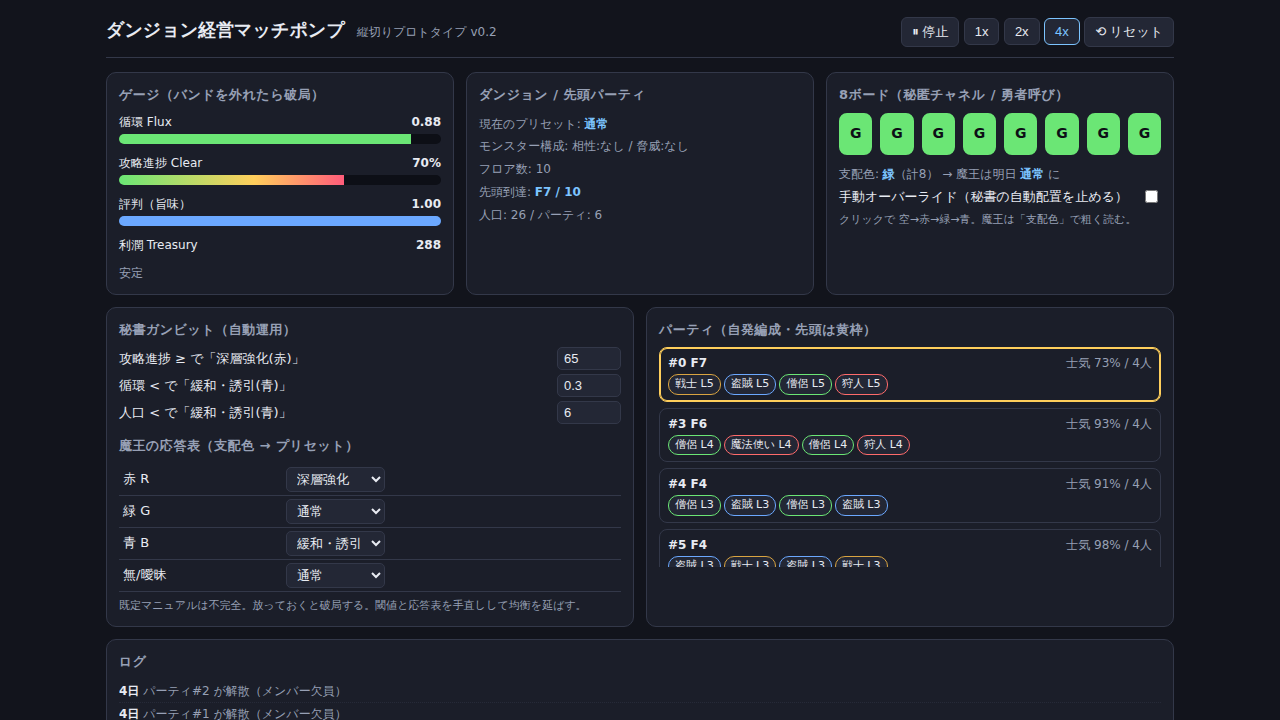
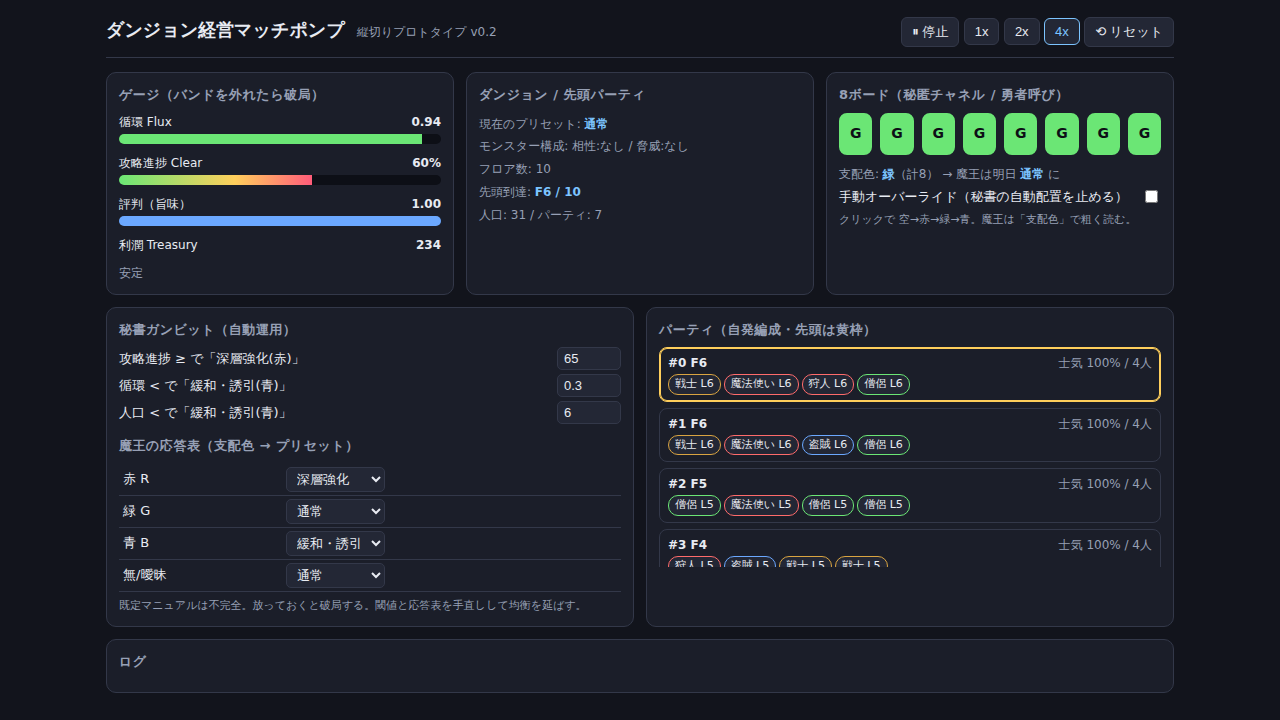
balance: homeostasis + terminal profit clock (fun verified)
- Per-day floor cap: control loop (1/day demon) can now track the frontrunner
- Default manual now oscillates in a stable band instead of breaking in ~16d
- Deepen preset now costly (high upkeep) -> over-suppressing bankrupts faster
- Rising demon-upkeep clock (D-07 entropy) -> catastrophe is eventual & inevitable
- Inflow level-creep; per-party operating cost; profit is now a live terminal gauge
- Strategy sweep: survival 104d (over-deepen) -> 187d (ease+situational deepen);
  player edits to thresholds/response-table meaningfully change the score (D-01)

diff --git a/src/config.js b/src/config.js
@@ -15,14 +15,18 @@ export const CONFIG = {
     inflowBase: 0.35, // 1tick あたりの基本流入期待値（評判で増減）
     startLevel: 1,
     startHp: 20,
+    // エントロピー漸増(D-07)：新規冒険者が日々わずかに強く来る（熟練の伝播）。
+    // 静的マニュアルはいずれ追いつけなくなる → 手直しが要る。
+    inflowLevelCreep: 0.06, // 新規Lv = startLevel + 経過日 × これ
   },
 
   // ダンジョン挙動プリセット（魔王の応答表が指すもの）
   // monster: 魔王のモンスター構成ノブ(D-13)。resist=半減属性 / threat=脅威型(burst 要壁 / status 要回復)
+  // upkeep: そのプリセットを維持する魔王への循環維持コスト/日（深層強化は高い）。
   presets: {
-    normal: { id: 'normal', label: '通常', diffBase: 1.0, deepBias: 0.0, reward: 1.0, monster: { resist: 'none', threat: 'none' } },
-    deepen: { id: 'deepen', label: '深層強化', diffBase: 1.0, deepBias: 1.2, reward: 1.1, monster: { resist: 'phys', threat: 'burst' } },
-    ease: { id: 'ease', label: '緩和・誘引', diffBase: 0.75, deepBias: 0.0, reward: 1.25, monster: { resist: 'none', threat: 'none' } },
+    normal: { id: 'normal', label: '通常', diffBase: 1.0, deepBias: 0.0, reward: 1.0, upkeep: 4, monster: { resist: 'none', threat: 'none' } },
+    deepen: { id: 'deepen', label: '深層強化', diffBase: 1.0, deepBias: 1.3, reward: 1.1, upkeep: 16, monster: { resist: 'phys', threat: 'burst' } },
+    ease: { id: 'ease', label: '緩和・誘引', diffBase: 0.75, deepBias: 0.0, reward: 1.25, upkeep: 7, monster: { resist: 'none', threat: 'none' } },
   },
 
   party: {
@@ -35,13 +39,16 @@ export const CONFIG = {
   },
 
   economy: {
-    feeRate: 0.2, // 冒険者の稼ぎへのギルド手数料
-    townConsumePerCapita: 0.05, // 1tick 1人あたりの街の消費（ギルド関連）
-    secretarySalaryPerDay: 8, // 秘書の人件費 / 日
-    demonUpkeepPerDay: 5, // 魔王への循環維持コスト / 日（固定分）
-    demonUpkeepPerClear: 0.2, // 攻略進捗に比例する循環維持コスト / 日
+    feeRate: 0.16, // 冒険者の稼ぎへのギルド手数料
+    townConsumePerCapita: 0.04, // 1tick 1人あたりの街の消費（ギルド関連）
+    secretarySalaryBase: 5, // 秘書の人件費 / 日（基本）
+    secretarySalaryPerParty: 1.2, // パーティ数に比例する運営費 / 日
+    demonUpkeepPerClear: 0.6, // 攻略進捗に比例する循環維持コスト / 日
+    // 終端クロック(D-07)：世界が拡大するほど循環維持コストが逓増。いずれ収入を追い越す。
+    // 効率の良い経営（人口/攻略を締め、利潤率を保つ）ほど破産を遅らせる＝スコア。
+    demonUpkeepGrowthPerDay: 0.5,
     startTreasury: 80,
-    bankruptFloor: -40, // これを下回る日が続くと破産
+    bankruptFloor: -50, // これを下回る日が続くと破産
     bankruptDays: 3,
   },
 

diff --git a/src/sim.js b/src/sim.js
@@ -22,9 +22,10 @@ export function simTick(state) {
   const aliveCount = countAliveAll(state);
   const capFactor = Math.max(0, 1 - aliveCount / CONFIG.population.softCap);
   pop.inflowAccum += CONFIG.population.inflowBase * (0.4 + state.gauges.reputation) * capFactor;
+  const inflowLevel = CONFIG.population.startLevel + state.time.day * CONFIG.population.inflowLevelCreep;
   while (pop.inflowAccum >= 1) {
     pop.inflowAccum -= 1;
-    pop.adventurers.push(makeAdventurer(rng, pop.nextId++));
+    pop.adventurers.push(makeAdventurer(rng, pop.nextId++, inflowLevel));
     state.stats.inflow++;
   }
 
@@ -42,7 +43,8 @@ export function simTick(state) {
 
     const power = partyPower(state, party);
     const target = party.floor + 1;
-    const canPush = target <= floors && power >= effectiveDifficulty(state, party, target);
+    // 遠征は時間がかかる：1日に前進できるのは1フロアまで（制御が追いつく速度に律速）。
+    const canPush = !party.advancedToday && target <= floors && power >= effectiveDifficulty(state, party, target);
 
     memberDelves += members.length;
     state.stats.delves++;
@@ -51,8 +53,9 @@ export function simTick(state) {
     if (canPush) {
       const effDiff = effectiveDifficulty(state, party, target);
       if (power * roll >= effDiff) {
-        // 前進成功
+        // 前進成功（この日はもう前進しない＝残りは踏破フロアで稼ぐ）
         party.floor = target;
+        party.advancedToday = true;
         const reward = (1.5 + target * 1.2) * state.dungeon.preset.reward;
         fee += reward * CONFIG.economy.feeRate;
         const share = reward / members.length;

diff --git a/src/economy.js b/src/economy.js
@@ -13,8 +13,15 @@ export function accrueTickIncome(state, fee) {
 // 1日1回：支出（人件費・魔王コスト）を引き、破局判定を進める
 export function settleDaily(state) {
   const e = CONFIG.economy;
-  const demonUpkeep = e.demonUpkeepPerDay + (state.gauges.clear / 100) * e.demonUpkeepPerClear * state.dungeon.floors;
-  const expense = e.secretarySalaryPerDay + demonUpkeep;
+  const nParties = state.parties.list.filter((p) => p.alive).length;
+  const secretary = e.secretarySalaryBase + e.secretarySalaryPerParty * nParties;
+  // 循環維持コスト：現在プリセットの upkeep（深層強化は高い）＋攻略進捗比例＋逓増クロック
+  const demonUpkeep =
+    (state.dungeon.preset.upkeep || 0) +
+    e.demonUpkeepPerClear * state.gauges.clear +
+    e.demonUpkeepGrowthPerDay * state.time.day;
+  const expense = secretary + demonUpkeep;
+  state.economy.lastDayNet = -expense; // 収入はtick計上、ここでは支出のみ差引
   state.economy.treasury -= expense;
 
   // 破産ストリーク

diff --git a/src/state.js b/src/state.js
@@ -6,15 +6,15 @@ import { CLASS_IDS, classOf } from './classes.js';
 const NAME_A = ['アル', 'ベル', 'カイ', 'ドラ', 'エル', 'フィ', 'グレ', 'ハル', 'イリ', 'ジン', 'クロ', 'レン', 'ミナ', 'ノア', 'オル', 'ピア'];
 const NAME_B = ['ド', 'ン', 'ヴァ', 'ス', 'ク', 'ミ', 'ル', 'ト', 'ア', 'ゼ', 'グ', 'リ'];
 
-export function makeAdventurer(rng, id) {
+export function makeAdventurer(rng, id, level = CONFIG.population.startLevel) {
   const classId = pick(rng, CLASS_IDS);
   const cls = classOf(classId);
-  const maxHp = Math.round(CONFIG.population.startHp * cls.hpMul);
+  const maxHp = Math.round(CONFIG.population.startHp * cls.hpMul * (1 + (level - 1) * 0.1));
   return {
     id,
     name: pick(rng, NAME_A) + pick(rng, NAME_B),
     classId,
-    level: CONFIG.population.startLevel,
+    level,
     hp: maxHp,
     maxHp,
     morale: 0.6, // 0..1

diff --git a/src/game.js b/src/game.js
@@ -16,6 +16,7 @@ function dailyPartyPhase(state) {
     if (party.floor > party.floorAtDayStart) party.stallDays = 0;
     else party.stallDays++;
     party.floorAtDayStart = party.floor;
+    party.advancedToday = false; // 新しい日：前進枠をリセット
   }
   // 停滞パーティの自発転職（D-32）
   for (const party of state.parties.list) {
